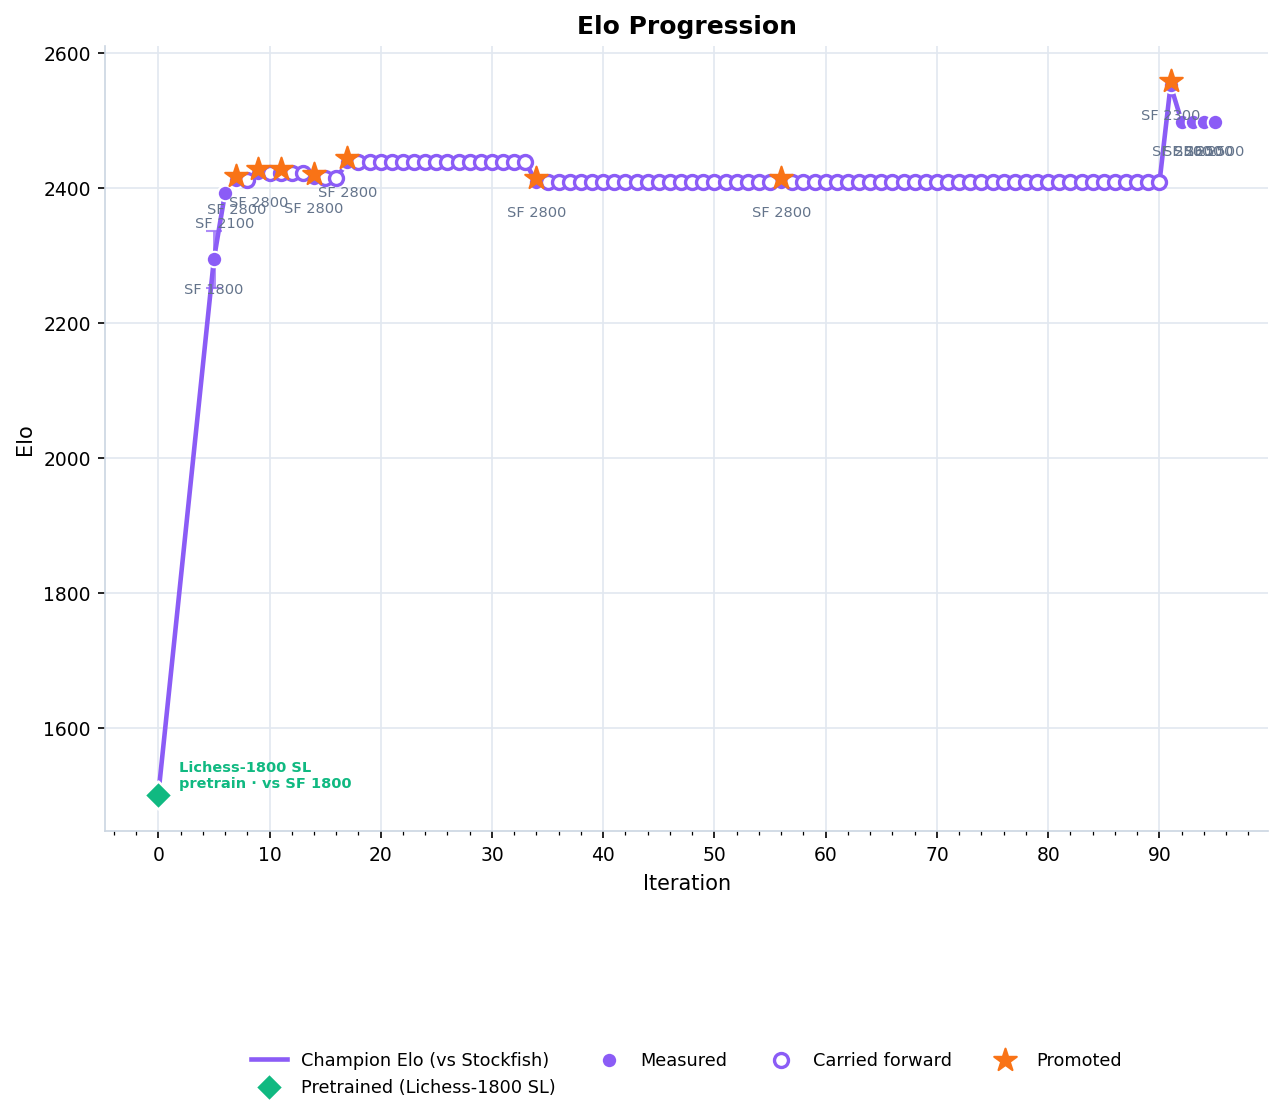
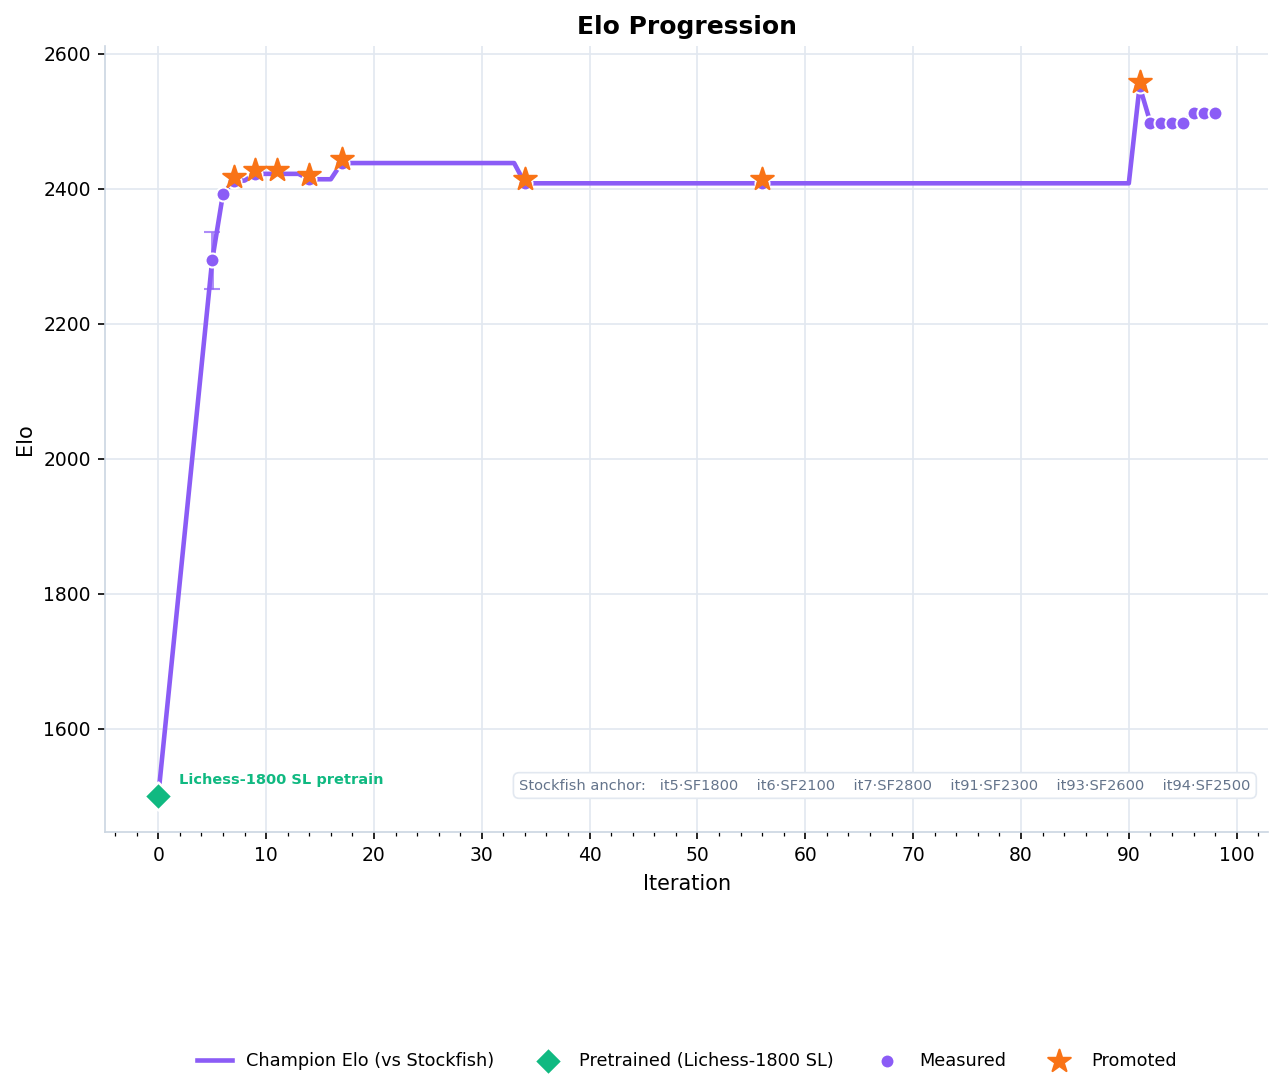
Plots update

diff --git a/chess_ai/plot_metrics.py b/chess_ai/plot_metrics.py
@@ -283,33 +283,38 @@ def panel_elo(ax, H):
         i0 = np.where(is_pre)[0][0]
         ax.scatter([0], [elo[i0]], marker="D", s=90, color=C["value"], zorder=5,
                    edgecolor="white", linewidth=1.2, label="Pretrained (Lichess-1800 SL)")
-        sf0 = "" if np.isnan(H["sf_elo"][i0]) else f" · vs SF {int(H['sf_elo'][i0])}"
-        ax.annotate(f"Lichess-1800 SL\npretrain{sf0}", (0, elo[i0]),
-                    textcoords="offset points", xytext=(10, 4), fontsize=7,
+        ax.annotate("Lichess-1800 SL pretrain", (0, elo[i0]),
+                    textcoords="offset points", xytext=(10, 6), fontsize=7,
                     color=C["value"], fontweight="bold")
-    # Measured points (filled, with CI bars where available) vs carried-forward (hollow).
+    # Only MEASURED (fresh) points get a marker — the flat line segments between them already show the
+    # carried-forward (champion-held) periods, so a hollow dot at every held iteration is just noise.
     m_meas = mask & meas & ~is_pre
-    m_carry = mask & ~meas & ~is_pre
     cm = ~np.isnan(ci) & m_meas
     if cm.any():
         ax.errorbar(it[cm], elo[cm], yerr=ci[cm], fmt="none", ecolor=C["elo"],
                     elinewidth=1.4, capsize=4, alpha=0.7, zorder=1)
-    ax.scatter(it[m_meas], elo[m_meas], s=55, color=C["elo"], zorder=3,
+    ax.scatter(it[m_meas], elo[m_meas], s=45, color=C["elo"], zorder=3,
                edgecolor="white", linewidth=1, label="Measured")
-    if m_carry.any():
-        ax.scatter(it[m_carry], elo[m_carry], s=45, facecolor="white",
-                   edgecolor=C["elo"], linewidth=1.6, zorder=3, label="Carried forward")
     # Promotion stars.
     prom = mask & H["promoted"]
     if prom.any():
         ax.scatter(it[prom], elo[prom] + 6, marker="*", s=130, color=C["champ"],
                    zorder=4, label="Promoted")
-    # Annotate Stockfish anchor at each measured point.
+    # Stockfish anchor schedule as ONE compact caption in the empty lower area, instead of a label at
+    # every measured point (which stacked/collided at rapid anchor changes like 1800→2100→2800). Lists
+    # only the iteration each anchor first took effect — shows the anchor being raised as the net grows.
+    eras, prev_sf = [], None
     for i in np.where(m_meas)[0]:
-        if not np.isnan(H["sf_elo"][i]):
-            ax.annotate(f"SF {int(H['sf_elo'][i])}", (it[i], elo[i]),
-                        textcoords="offset points", xytext=(0, -16),
-                        ha="center", fontsize=7, color="#64748b")
+        sf = H["sf_elo"][i]
+        if np.isnan(sf):
+            continue
+        if int(sf) != prev_sf:
+            eras.append(f"it{int(it[i])}·SF{int(sf)}")
+            prev_sf = int(sf)
+    if eras:
+        ax.text(0.985, 0.05, "Stockfish anchor:   " + "    ".join(eras),
+                transform=ax.transAxes, ha="right", va="bottom", fontsize=7, color="#64748b",
+                bbox=dict(boxstyle="round,pad=0.4", fc="white", ec="#e2e8f0", lw=0.8))
     ax.set_title("Elo Progression")
     ax.set_ylabel("Elo")
     _int_xaxis(ax, it, "elo")
